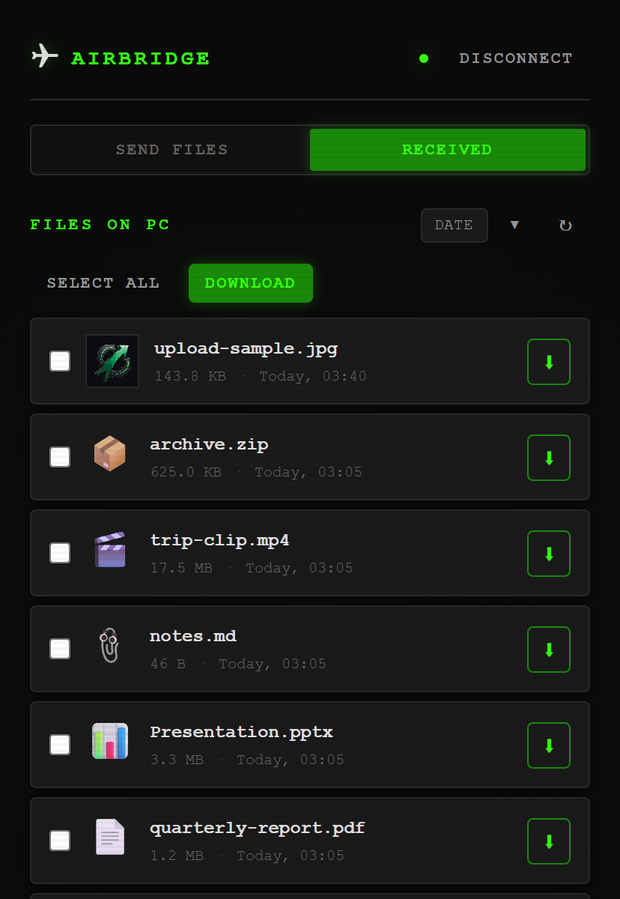
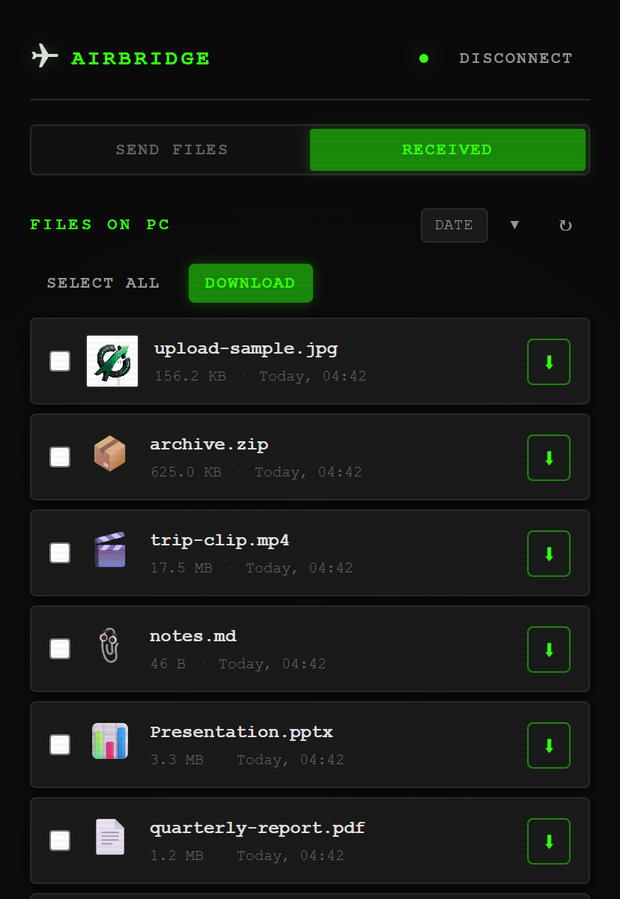
docs: rewrite for 1.2.0 and bump the version
The comparison table now names qrcp, which is the closest thing to this
project that exists, and Windows Phone Link, and says plainly that
LocalSend is the better answer for anyone willing to install an app.

Known limitations lists what is still true rather than what was true
before this release: downloads do not resume, there is one PIN and one
user, the PIN rides in the pairing link, and nothing has been audited.

diff --git a/airbridge/__init__.py b/airbridge/__init__.py
@@ -4,5 +4,5 @@ A local HTTPS server plus a browser front end: the phone needs no app,
 the network needs no internet, and nothing is uploaded anywhere.
 """
 
-__version__ = "1.1.0"
+__version__ = "1.2.0"
 __all__ = ["__version__"]

diff --git a/README.md b/README.md
@@ -11,7 +11,7 @@
 [![Stack](https://img.shields.io/badge/stack-Python_·_aiohttp_·_PWA-3776AB?logo=python&logoColor=white)](#how-it-works)
 [![License](https://img.shields.io/badge/license-source--available_NC-lightgrey)](LICENSE)
 
-<img src="docs/screenshots/connect.png" width="255" alt="Pairing screen with the PIN field" />&nbsp;&nbsp;<img src="docs/screenshots/send.png" width="255" alt="Send tab with a completed transfer" />&nbsp;&nbsp;<img src="docs/screenshots/received.png" width="255" alt="Files received on the PC, with thumbnails" />
+<img src="docs/screenshots/connect.png" width="255" alt="Pairing screen with the PIN field" />&nbsp;&nbsp;<img src="docs/screenshots/send.png" width="255" alt="Send tab showing a verified transfer" />&nbsp;&nbsp;<img src="docs/screenshots/received.png" width="255" alt="Files received on the PC, with thumbnails" />
 
 </div>
 
@@ -30,20 +30,27 @@ The tools that do solve it each ask for something:
 | | on the phone | needs internet | notes |
 |---|---|---|---|
 | **AirDrop** | built in | no | Apple devices only — no Windows |
-| **[LocalSend](https://github.com/localsend/localsend)** | install an app | no | both ends need the app installed |
-| **[PairDrop](https://github.com/schlagmichdoch/PairDrop)** / Snapdrop | browser only | **yes** | a signalling server has to introduce the peers |
+| **[LocalSend](https://github.com/localsend/localsend)** | install an app | no | both ends need the app; the better choice if you don't mind installing one |
+| **[PairDrop](https://github.com/schlagmichdoch/PairDrop)** | browser only | **yes**¹ | a signalling server has to introduce the peers |
+| **[qrcp](https://github.com/claudiodangelis/qrcp)** | browser only | no | one-shot terminal transfer; no session, no progress, bring your own certificate |
+| **Windows Phone Link** | built in | yes | iPhone → PC only, and file types depend on the sending app |
 | **Cloud drives** | install an app | **yes** | the file leaves your network |
-| **AirBridge** | **browser only** | **no** | one server, on the PC you already control |
+| **AirBridge** | **browser only** | **no** | a session that stays open, with previews, progress and resume |
 
-The gap AirBridge fills is the intersection of the last two columns:
-nothing to install on the phone, *and* nothing outside the room. You run
-a small server on the PC; the phone opens it in Safari. That is the whole
-system. It works on a hotel network, and on an iPhone Personal Hotspot
-with cellular data switched off.
+¹ *PairDrop can be self-hosted for offline use, which means running Node and
+a STUN/TURN setup of your own.*
+
+The gap AirBridge fills is narrow and real: nothing to install on the
+phone, nothing outside the room, **and** a session that behaves like an
+app rather than a single shot. You run a small server on the PC; the
+phone opens it in Safari and stays connected — sending, browsing what has
+arrived, previewing it, pulling files back. It works on a hotel network,
+and on an iPhone Personal Hotspot with cellular data switched off.
 
 **It is a personal tool, not a product.** No account, no telemetry, no
-update channel, no support commitment. If you want something maintained
-by a team, LocalSend is the better answer and is genuinely good.
+update channel, no support commitment. If installing an app on the phone
+is acceptable, LocalSend is more capable and better maintained, and this
+README would rather say so than pretend otherwise.
 
 ## How it works
 
@@ -59,8 +66,8 @@ by a team, LocalSend is the better answer and is genuinely good.
 │  │              │  │      AES-256-GCM       │  │  PWA, no     │  │
 │  │  PIN auth    │  │                        │  │  install     │  │
 │  │  SHA-256     │  │   3. 64 KB chunks,     │  └──────────────┘  │
-│  └──────┬───────┘  │      either direction  │                    │
-│         │          │                        │                    │
+│  └──────┬───────┘  │      either direction, │                    │
+│         │          │      resumable         │                    │
 │  ~/Downloads/      │   4. mDNS announce     │                    │
 │    AirBridge_...   │ ◄──────────────────────┤  airbridge.local   │
 └────────────────────┘                        └────────────────────┘
@@ -72,24 +79,52 @@ Metadata travels as JSON text frames, file bytes as binary frames on the
 same socket. The server writes each chunk straight to disk and hashes it
 as it goes, so memory use does not scale with file size.
 
+**Interrupted transfers continue.** An upload lands in a scratch file
+named for its size; reconnecting reports how much survived and the phone
+sends only the rest. **Both ends hash independently** and compare, so
+"Complete" means the right bytes arrived, not merely that bytes did.
+
 ### Why HTTPS, for a thing on your own LAN
 
 Not for the padlock. Browsers gate half their capabilities behind a
 *secure context*: on a plain `http://192.168.x.x` page, `crypto.subtle`
-is undefined and `navigator.serviceWorker` does not exist. Serving over
-TLS is what makes offline caching possible at all — and it keeps anyone
-else on the same Wi-Fi from reading the file in transit.
+is undefined and `navigator.serviceWorker` does not exist, so offline
+caching is impossible before you write a line of it. TLS also keeps
+anyone else on the same Wi-Fi from reading the file in transit.
 
-No certificate authority will vouch for `192.168.1.5`, so AirBridge signs
-its own certificate and re-issues it when the address changes. **Safari
-warns once per certificate**: tap *Show Details*, then *visit this
-website*. The terminal prints the SHA-256 fingerprint so the certificate
-can be checked against the machine that issued it.
+No certificate authority will vouch for `192.168.1.5`, so AirBridge is
+its own authority: a CA generated on first run, and a server certificate
+under it re-issued whenever your address changes. Certificates are built
+to [Apple's published requirements](https://support.apple.com/103769) —
+`serverAuth` in ExtendedKeyUsage, a DNS name in the SAN, under 398 days —
+because iOS rejects certificates that miss any of them outright.
 
-`--no-tls` serves plain HTTP instead. Transfers are then readable by
-anyone on the network, and offline caching stays off.
+**Install the certificate once** and the warnings stop for good. Open
+`https://<address>/ca.crt` on the phone, then *Settings → Profile
+Downloaded → Install*, then *Settings → General → About → Certificate
+Trust Settings* and switch AirBridge on. The terminal prints the SHA-256
+fingerprint so you can check it is your machine and not someone else's.
+
+**If you don't, it still works.** Safari refuses a WebSocket to an
+untrusted certificate even after you accept the warning for the page, so
+a certificate you skipped would otherwise leave you with an app that
+loads and then moves nothing. The server therefore also listens on plain
+HTTP one port up; when the encrypted socket will not open, the web app
+says why and offers that address with the PIN already in it. Encryption
+is the default and the way around it is one tap.
+
+`--no-tls` serves plain HTTP only. `--no-http-fallback` closes the
+unencrypted port.
 
 ## Quick start
+
+```bash
+pip install git+https://github.com/nkVas1/AirBridge
+airbridge
+```
+
+Or from a checkout — `start.bat` on Windows, `start.sh` elsewhere, both
+of which create a virtual environment first:
 
 ```bash
 git clone https://github.com/nkVas1/AirBridge
@@ -98,21 +133,18 @@ pip install -r requirements.txt
 python -m airbridge
 ```
 
-On Windows, `start.bat` does the same and creates a virtual environment
-first. On macOS and Linux, `start.sh`.
-
 The terminal prints the address, the PIN, and a QR code:
 
 ```
-============================================================
+================================================================
   AirBridge - Wireless File Transfer
-============================================================
+================================================================
 
-  Server running at:  https://192.168.1.59:8090
+  Open on the phone:  https://192.168.1.59:8090
   Connection PIN:     482901
   Downloads folder:   C:\Users\you\Downloads\AirBridge_Downloads
 
-  Point your phone camera at this code:
+  Point the phone camera at this code:
 
         █████████████████████████████████████
         ████ ▄▄▄▄▄ █▀  ▄▄▄▀▀  █▀██ ▄▄▄▄▄ ████
@@ -122,17 +154,22 @@ The terminal prints the address, the PIN, and a QR code:
                         ( ... )
         █████████████████████████████████████
 
-  Or open the address by hand and enter the PIN.
+  First time on this phone, to avoid warnings and make sure
+  transfers can be encrypted, install the AirBridge
+  certificate from  https://192.168.1.59:8090/ca.crt
+    iOS: Settings > Profile Downloaded > Install, then
+         Settings > General > About > Certificate Trust Settings
+  Authority SHA-256: 21:25:9A:87:E0:F3:B3:47:...
 
-  The certificate is self-signed, so the phone warns once:
-    tap "Show Details" -> "visit this website" to continue.
-  Certificate SHA-256: 21:25:9A:87:E0:F3:B3:47:...
-============================================================
+  If the phone will not connect over HTTPS, this address
+  always works, without encryption:
+    http://192.168.1.59:8091
+================================================================
 ```
 
-Point the iPhone camera at the code and tap the notification. The PIN
-travels inside the link, so the app connects on its own and then strips
-the PIN back out of the address bar.
+Point the camera at the code and tap the notification. The PIN travels
+inside the link, so the app connects on its own and then strips the PIN
+back out of the address bar.
 
 ### Without any internet
 
@@ -145,20 +182,22 @@ Both devices are then on a network with no route out, which is the point.
 ### Options
 
 ```bash
-python -m airbridge --port 9000               # different port
-python -m airbridge --downloads-dir D:/Inbox  # where received files land
-python -m airbridge --no-tls                  # plain HTTP, no encryption
-python -m airbridge --log-level DEBUG         # verbose
+airbridge --port 9000               # different port (fallback takes 9001)
+airbridge --downloads-dir D:/Inbox  # where received files land
+airbridge --no-tls                  # plain HTTP only, no encryption
+airbridge --no-http-fallback        # encrypted port only
+airbridge --log-level DEBUG         # verbose
 ```
 
 The same settings exist as `AIRBRIDGE_PORT`, `AIRBRIDGE_DOWNLOADS`,
-`AIRBRIDGE_TLS`, `AIRBRIDGE_CERT_DIR` and `AIRBRIDGE_LOG_LEVEL`.
+`AIRBRIDGE_TLS`, `AIRBRIDGE_HTTP_FALLBACK`, `AIRBRIDGE_CERT_DIR` and
+`AIRBRIDGE_LOG_LEVEL`.
 
 ## Requirements
 
 - **PC** — Python 3.10+. Built and used on Windows 11; the code is plain
-  cross-platform Python and runs on macOS and Linux, but those get far
-  less exercise.
+  cross-platform Python and CI runs it on Linux too, but macOS gets no
+  real-world testing.
 - **Phone** — Safari on iOS 15+, or any current mobile browser.
 - **Network** — both devices on the same Wi-Fi, or the PC on the phone's
   hotspot. No internet needed either way.
@@ -167,27 +206,20 @@ The same settings exist as `AIRBRIDGE_PORT`, `AIRBRIDGE_DOWNLOADS`,
 
 Named here rather than discovered later:
 
-- **A dropped transfer does not resume.** The connection is allowed to
-  close mid-file and the partial file stays on disk; there is no code to
-  pick it back up.
-- **The client does not verify the checksum.** The server hashes every
-  transfer with SHA-256 and reports the digest, but the browser side
-  ignores it, so corruption would go unnoticed.
-- **The PIN is six digits and is not rate-limited.** It is a barrier
-  against the wrong person on the same network tapping *Connect*, not
-  against a determined attacker. It changes on every restart.
-- **The certificate is self-signed**, so each new certificate costs one
-  browser warning.
-- **mDNS is best-effort.** `airbridge.local` fails to register on some
-  Windows setups; the server logs a warning and carries on, and the
-  numeric address in the banner always works.
-- **Run it from the checkout, not from `pip install`.** `webapp/` sits
-  outside the Python package, so an installed wheel has the server but
-  none of the web interface, and the `airbridge` console script it puts
-  on PATH answers with a plain-text placeholder. Packaging the assets
-  properly means moving them into the package.
-- `crypto.py` still carries AES-GCM helpers that nothing calls. Transport
-  security is TLS; those functions are vestigial.
+- **Downloads do not resume.** Uploads do; a file pulled from the PC to
+  the phone starts over if the connection drops.
+- **One PIN, one person.** There is no notion of separate users, and
+  anyone with the PIN sees everything in the downloads folder.
+- **The PIN rides in the pairing link.** That is what makes the QR code
+  work in the stock camera app. The app strips it from the address bar
+  after connecting, but it is a query string, and query strings leak.
+- **The certificate needs installing for a warning-free encrypted
+  connection.** One tap, once per phone, and it is a private authority
+  living on your machine — remove it in *Certificate Trust Settings* when
+  you no longer want it.
+- **mDNS is best-effort.** `airbridge.local` does not resolve on every
+  network; the numeric address in the banner always works.
+- **10 GB per file**, and no directory upload — files only.
 - **None of this has been security-audited.** It is one person's tool,
   published as-is.
 
@@ -196,12 +228,18 @@ Named here rather than discovered later:
 ```bash
 pip install -r requirements-dev.txt
 
-pytest tests/ -q                  # 73 tests
+pytest tests/ -q                  # 84 tests
 ruff check airbridge/ tests/
 mypy airbridge/
 ```
 
 CI runs all three on Windows and Linux across Python 3.10, 3.11 and 3.12.
+
+The tests worth knowing about: `test_tls.py` asserts each of Apple's
+certificate requirements individually, because breaking one of them
+breaks the product completely rather than degrading it, and
+`test_websocket.py` drives a real socket through an interrupted transfer
+to prove it resumes and that the digest still covers the whole file.
 
 ### Layout
 
@@ -209,14 +247,13 @@ CI runs all three on Windows and Linux across Python 3.10, 3.11 and 3.12.
 airbridge/
   __main__.py     CLI entry point
   server.py       HTTP + WebSocket routes, startup banner
-  transfer.py     chunked transfer engine, progress, SHA-256
-  auth.py         PIN, pairing URL, QR rendering
-  tls.py          self-signed certificate lifecycle
+  transfer.py     chunked transfer engine, resume, SHA-256
+  auth.py         PIN, throttling, pairing URL, QR rendering
+  tls.py          local certificate authority and server certificates
   discovery.py    mDNS/Bonjour announce
   config.py       settings from environment and CLI
-  crypto.py       checksums and AES-GCM helpers
-webapp/           the PWA the phone loads - no build step
-  index.html, css/, js/app.js, sw.js, manifest.json
+  webapp/         the page the phone loads - no build step
+    index.html, css/, js/app.js, js/sha256.js, sw.js, manifest.json
 tests/            pytest, async
 docs/screenshots/
 ```
@@ -233,9 +270,9 @@ the bytes.
 | to server | `upload_chunk` | `transfer_id` — binary frame follows |
 | to server | `upload_cancel` | `transfer_id` |
 | to server | `download_request` | `filename` |
-| to client | `auth_result` | `authenticated`, `session_id` |
-| to client | `upload_ready` | `transfer_id`, `total_chunks`, `chunk_size` |
-| to client | `chunk_ack` | `progress`, `speed_bps`, `eta_seconds` |
+| to client | `auth_result` | `authenticated`, `session_id`, `locked_for` |
+| to client | `upload_ready` | `transfer_id`, `total_chunks`, `chunk_size`, `resume_from` |
+| to client | `chunk_ack` | `progress`, `bytes_received`, `speed_bps`, `eta_seconds` |
 | to client | `upload_complete` | `transfer_id`, `checksum` |
 | to client | `download_start` | `transfer_id`, `filename`, `file_size` |
 | to client | `download_chunk` | `transfer_id`, `chunk_index` — binary follows |

diff --git a/CHANGELOG.md b/CHANGELOG.md
@@ -4,6 +4,67 @@ All notable changes to this project are documented here.
 The format follows [Keep a Changelog](https://keepachangelog.com/en/1.1.0/),
 and versions follow [Semantic Versioning](https://semver.org/spec/v2.0.0.html).
 
+## [1.2.0] — 2026-08-26
+
+Everything 1.1.0 listed as unfinished, finished — plus a fault in 1.1.0's
+own TLS work that would have broken the app on the one device this
+project exists for.
+
+### Fixed
+
+- **The web interface now ships with the package.** `webapp/` sat beside
+  the Python package rather than inside it, so an installed wheel held
+  the server and none of the interface. Only a checkout ever worked.
+- **Certificates iOS will accept.** 1.1.0's certificate had no
+  ExtendedKeyUsage extension; Apple has required `serverAuth` on every
+  TLS server certificate issued since July 2019 and rejects certificates
+  without it. It was also a bare self-signed leaf bound to one address,
+  so every change of network would have meant re-trusting it on the
+  phone. There is now a local certificate authority, trusted once, with
+  a server certificate under it that rotates freely. The authority is
+  served at `/ca.crt` in DER form, the only shape iOS treats as
+  installable.
+- **A way through when the certificate is not installed.** Safari
+  refuses a WebSocket to an untrusted certificate even after the page
+  warning is accepted, and AirBridge moves every byte over a WebSocket —
+  so 1.1.0 could have loaded on an iPhone and then transferred nothing.
+  The server now also listens on plain HTTP one port up, and the web app
+  explains the failure and offers that address rather than sitting there
+  looking broken.
+- **mDNS registration.** zeroconf's synchronous API raises
+  `EventLoopBlocked` when called from inside a running loop, which is
+  where the aiohttp startup hook lives; it failed on every start. Now
+  registered through `AsyncZeroconf`.
+- **The startup banner reaches redirected output.** `print` is
+  block-buffered when stdout is not a console, and a server that then
+  runs forever never filled the buffer, so anyone launching through a
+  wrapper script never saw the address or the PIN.
+
+### Added
+
+- **Interrupted uploads resume.** An upload lands in a scratch file
+  named for its declared size and is renamed into place only once whole;
+  reconnecting reports how many bytes survived and the sender continues
+  from there. The digest still spans the whole file.
+- **Both ends verify the checksum.** The server always reported a
+  SHA-256 digest and nothing compared it. The browser now hashes what it
+  sends and receives and checks; a download that fails the check is
+  discarded rather than handed over. Needed a streaming SHA-256 in
+  JavaScript, since `crypto.subtle` cannot hash incrementally and does
+  not exist outside a secure context.
+- **Wrong PINs are throttled.** Five failures in a minute lock that
+  address out, doubling on repeat up to an hour. Six digits is a million
+  guesses and nothing was slowing them down.
+- `--no-http-fallback`, and `AIRBRIDGE_HTTP_FALLBACK`.
+- Partial uploads are listed separately from finished ones, and never
+  offered as if they were complete files.
+
+### Removed
+
+- `crypto.py`. Its AES-GCM helpers were never called by anything —
+  transport security is TLS — and a module of unused cryptography reads
+  like a promise the product does not keep.
+
 ## [1.1.0] — 2026-08-26
 
 The 1.0.0 README promised encryption, a pairing QR code and an offline
@@ -56,6 +117,7 @@ implements them or stops claiming them.
 
 - `webapp/` is not part of the Python package, so `pip install` yields a
   server without a web interface. Run from a checkout instead.
+  *(Fixed in 1.2.0.)*
 
 ## [1.0.0] — 2026-05-23
 
